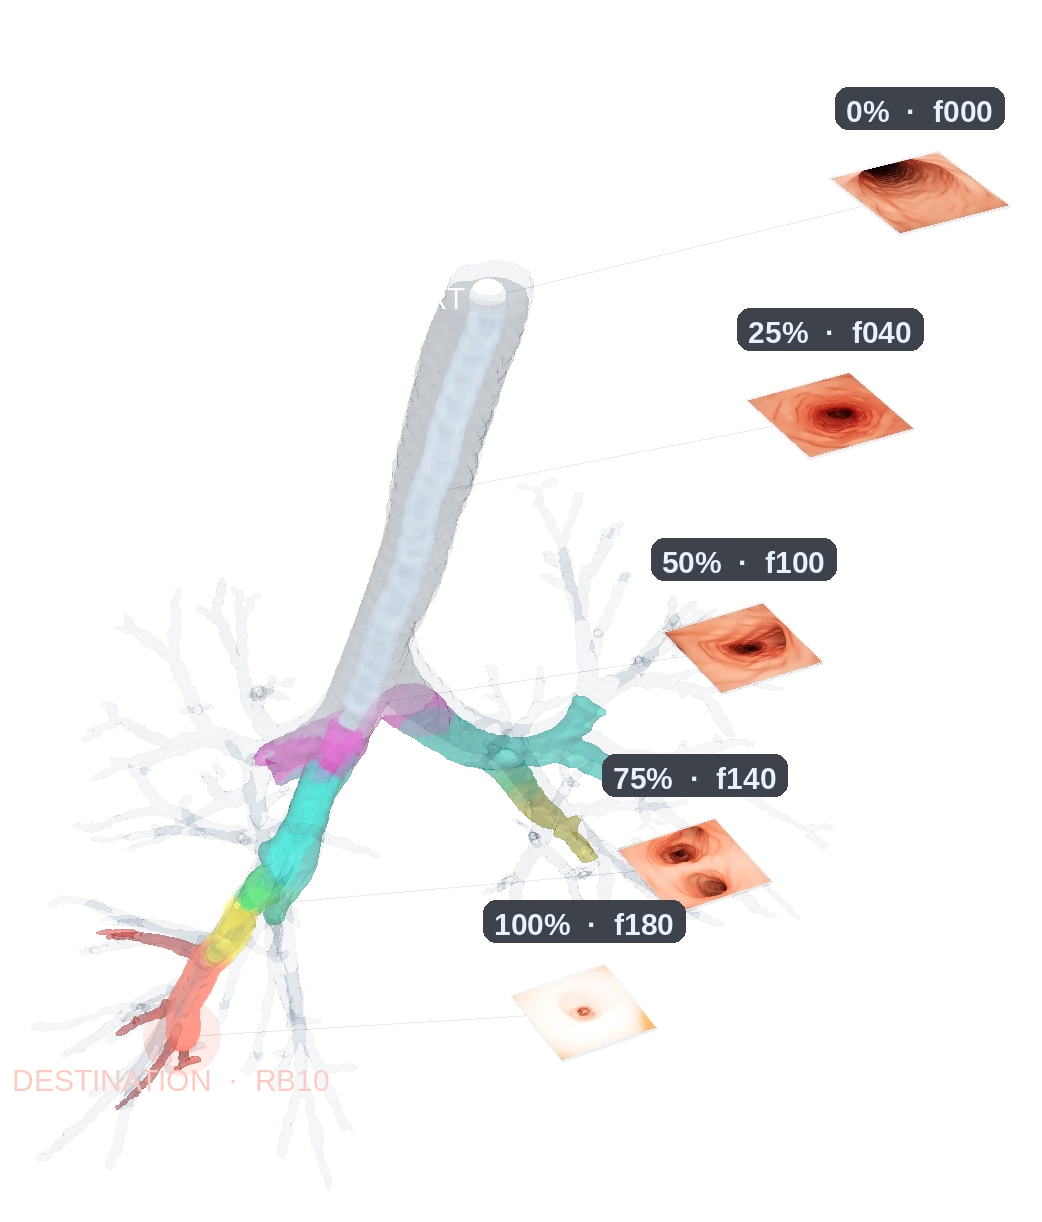
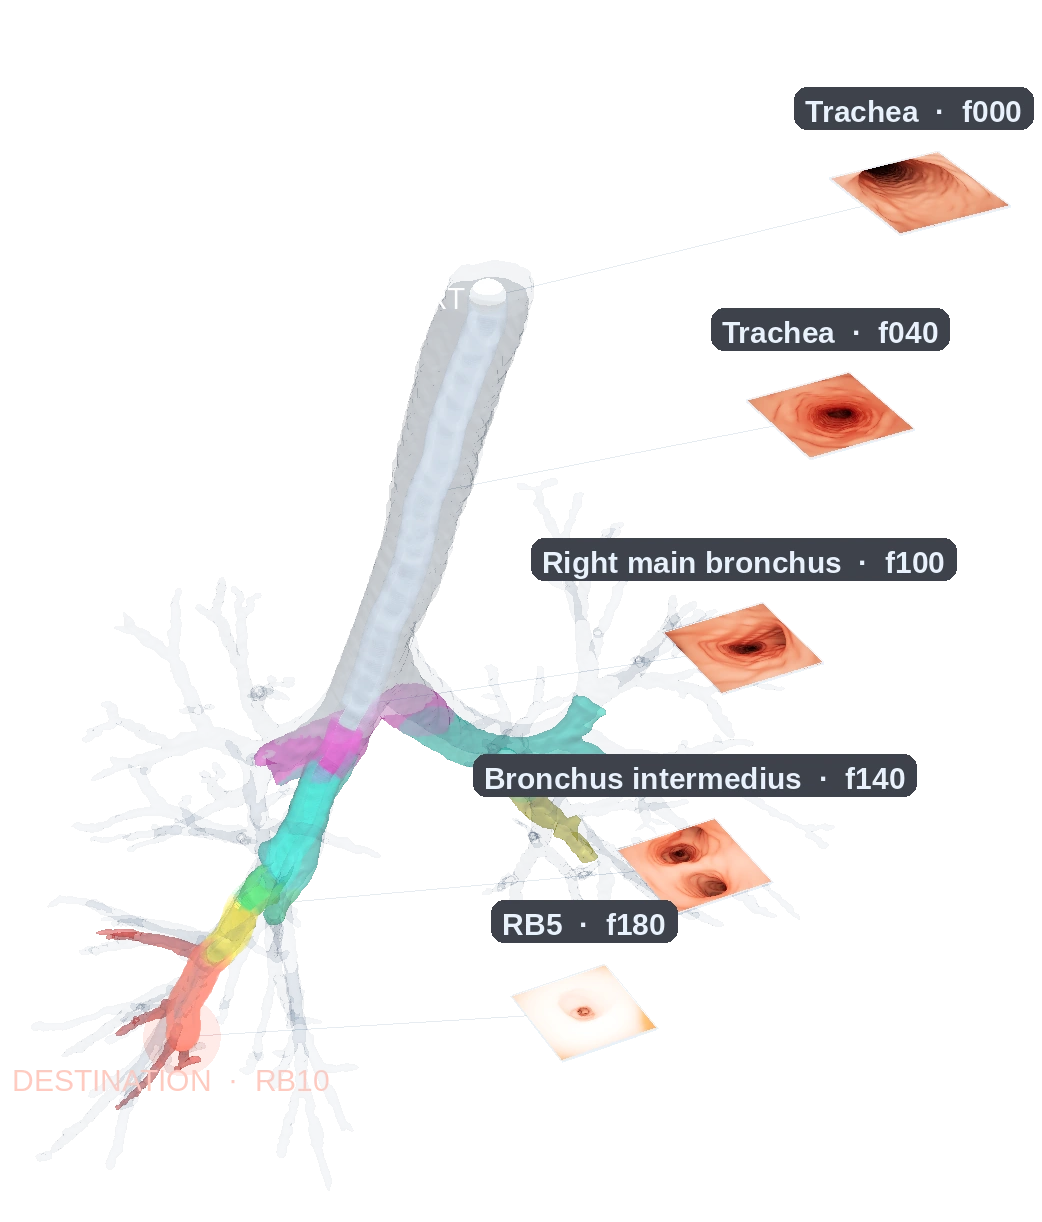
atm26: label Track 3 frames with their anatomical landmarks

diff --git a/sites/atm26/tests/taskFigures.test.ts b/sites/atm26/tests/taskFigures.test.ts
@@ -32,6 +32,18 @@ describe("track demo figures", () => {
       "160",
       "180",
     ]);
+    expect(TRACKS[2].figure?.frames?.map((frame) => frame.anatomy)).toEqual([
+      "Trachea",
+      "Trachea",
+      "Trachea",
+      "Trachea",
+      "Trachea",
+      "Right main bronchus",
+      "Bronchus intermedius",
+      "Bronchus intermedius",
+      "Right middle lobe",
+      "RB5",
+    ]);
   });
 
   it("pairs the shared CT input with a binary and a multiclass surface", () => {
@@ -112,6 +124,29 @@ describe("track demo figures", () => {
     expect(html).toContain('class="task-card-sequence"');
   });
 
+  it("names the landmark next to every Tracks frame, but not on the home card", () => {
+    const tracks = renderTracks();
+    expect(tracks.match(/class="seq-step seq-step--labelled"/g)).toHaveLength(10);
+    expect(tracks.match(/class="seq-anatomy"/g)).toHaveLength(10);
+    for (const name of [
+      "Trachea",
+      "Right main bronchus",
+      "Bronchus intermedius",
+      "Right middle lobe",
+      "RB5",
+    ]) {
+      expect(tracks).toContain(`<span class="seq-anatomy">${name}</span>`);
+    }
+    // The label follows the frame it names, and the alt text carries it too.
+    const firstFrame = tracks.indexOf("frame-000.webp");
+    const firstLabel = tracks.indexOf(">Trachea</span>");
+    expect(firstLabel).toBeGreaterThan(firstFrame);
+    expect(tracks).toContain("Bronchoscopy frame 100 (Right main bronchus)");
+
+    // The compact home card stays a pure timeline.
+    expect(renderHome()).not.toContain("seq-anatomy");
+  });
+
   it("renders three visual Task cards", () => {
     const html = renderHome();
     expect(html.match(/class="task-card task-card--/g)).toHaveLength(3);
@@ -137,7 +172,7 @@ describe("track demo figures", () => {
     expect(html).toContain('id="track-3"');
     expect(html.match(/class="track-figure /g)).toHaveLength(3);
     expect(html).toContain("track-figure--sequence");
-    expect(html.match(/class="seq-step"/g)).toHaveLength(10);
+    expect(html.match(/class="seq-step(?=[\s"])/g)).toHaveLength(10);
     expect(html).toContain("img/tasks/bronch-output.webp");
     expect(html).toContain('class="legend-swatch legend-left"');
     expect(html).toContain('class="legend-swatch legend-right"');
@@ -156,6 +191,8 @@ describe("track demo figures", () => {
       ".task-card-panes",
       ".task-card-sequence",
       ".seq-strip",
+      ".seq-step--labelled",
+      ".seq-anatomy",
       ".track-figure",
       ".track-figure--sequence",
     ]) {

diff --git a/sites/atm26/src/content.ts b/sites/atm26/src/content.ts
@@ -16,6 +16,8 @@ export interface TrackFigureFrame {
   height: number;
   /** Numeric tag shown on the timeline, e.g. "000". */
   label?: string;
+  /** Airway landmark visible in the frame, e.g. "Right main bronchus". */
+  anatomy?: string;
   /** "start" or "final" when the frame bounds the sequence. */
   role?: string;
 }
@@ -115,16 +117,32 @@ export const IMAGES = {
 /** Ten evenly spaced frames of one Track 3 training sequence. */
 const TRACK3_FRAME_IDS = [0, 20, 40, 60, 80, 100, 120, 140, 160, 180];
 
+/** Per-frame landmarks of sequence ATM_276/13, from its labels.csv. */
+const TRACK3_FRAME_ANATOMY: Record<number, string> = {
+  0: "Trachea",
+  20: "Trachea",
+  40: "Trachea",
+  60: "Trachea",
+  80: "Trachea",
+  100: "Right main bronchus",
+  120: "Bronchus intermedius",
+  140: "Bronchus intermedius",
+  160: "Right middle lobe",
+  180: "RB5",
+};
+
 const TRACK3_FRAMES: TrackFigureFrame[] = TRACK3_FRAME_IDS.map((id, index) => {
   const tag = String(id).padStart(3, "0");
   const role =
     index === 0 ? "start" : index === TRACK3_FRAME_IDS.length - 1 ? "final" : undefined;
+  const anatomy = TRACK3_FRAME_ANATOMY[id];
   return {
     src: `img/tasks/track3/frame-${tag}.webp`,
-    alt: `Bronchoscopy frame ${tag}${role ? `, the ${role} frame shown` : ""} of a training sequence.`,
+    alt: `Bronchoscopy frame ${tag} (${anatomy})${role ? `, the ${role} frame` : ""}, from a training sequence.`,
     width: 400,
     height: 400,
     label: tag,
+    anatomy,
     role,
   };
 });
@@ -276,7 +294,7 @@ export const TRACKS: TrackInfo[] = [
         kind: "32-class model + path",
         note: "Translucent classes; the rest of the tree faded.",
         src: IMAGES.taskBronchOutput,
-        alt: "A translucent multicoloured airway tree with a glowing navigation path from the top of the trachea to the RB10 segment; five bronchoscopy frames lie on horizontal planes along the path.",
+        alt: "A translucent multicoloured airway tree with a glowing navigation path from the top of the trachea to the RB10 segment; five bronchoscopy frames lie on horizontal planes along the path, each labelled with its airway class.",
         width: 1042,
         height: 1222,
         thumbSrc: IMAGES.taskBronchOutputThumb,

diff --git a/sites/atm26/src/pages.ts b/sites/atm26/src/pages.ts
@@ -210,8 +210,14 @@ function renderFrameStrip(fig: TrackFigure, context: "home" | "tracks"): string 
   const items = selected
     .map((frame) => {
       const tag = frame.label ?? "";
+      // The large Tracks figure names the landmark next to every frame; the
+      // compact home card keeps its timeline-only treatment.
+      const anatomy =
+        context === "tracks" && frame.anatomy
+          ? `<span class="seq-anatomy">${escapeHtml(frame.anatomy)}</span>`
+          : "";
       return `
-          <li class="seq-step">
+          <li class="seq-step${anatomy ? " seq-step--labelled" : ""}">
             <figure class="seq-frame">
               <img
                 src="${escapeHtml(resolveAsset(frame.src))}"
@@ -224,7 +230,7 @@ function renderFrameStrip(fig: TrackFigure, context: "home" | "tracks"): string 
               <figcaption>
                 <span class="seq-tag">f${escapeHtml(tag)}</span>
               </figcaption>
-            </figure>
+            </figure>${anatomy}
           </li>`;
     })
     .join("");

diff --git a/sites/atm26/src/styles.css b/sites/atm26/src/styles.css
@@ -1282,6 +1282,21 @@ summary {
   border-color: rgba(230, 237, 247, 0.9);
 }
 
+/* Tracks figure only: the landmark named beside each frame. */
+.seq-step--labelled {
+  flex-direction: row;
+  align-items: flex-start;
+  gap: 0.6rem;
+}
+
+.seq-anatomy {
+  margin-top: calc(var(--seq-size) / 2 - 0.45rem);
+  color: rgba(230, 237, 247, 0.78);
+  font-size: 0.72rem;
+  line-height: 1.25;
+  overflow-wrap: break-word;
+}
+
 .seq-frame {
   display: flex;
   flex-direction: column;

diff --git a/sites/atm26/README.md b/sites/atm26/README.md
@@ -179,11 +179,14 @@ The home Tasks panel and each Tracks section share the figures in
   (Track 2, cool colours for left-lung branches, warm for right-lung branches,
   neutral grey for the trachea and main bronchi).
 - **Track 3** packs ten frames of one training bronchoscopy sequence top to
-  bottom (first frame at the top, last at the bottom). The output is a
-  translucent 32-class airway surface with the endoluminal path from the
-  trachea (100) through the right main (102), bronchus intermedius (112) and
-  right lower lobe (111) / basal trunk (115) to RB10 (17). Five bronchoscopy
-  frames sit on axial planes along the path, so the sequence and the 3D route
+  bottom (first frame at the top, last at the bottom). On the Tracks page each
+  frame is labelled to its right with the landmark from the sequence's
+  `labels.csv` (trachea, right main bronchus, bronchus intermedius, right middle
+  lobe, RB5). The output is a translucent 32-class airway surface with the
+  endoluminal path from the trachea (100) through the right main (102),
+  bronchus intermedius (112) and right lower lobe (111) / basal trunk (115) to
+  RB10 (17). Five bronchoscopy frames sit on axial planes along the path, each
+  tagged with the same per-frame landmark, so the sequence and the 3D route
   read as one scene. Frames live in `public/img/tasks/track3/`; the scene is
   `bronch-output.webp`, with an unlabelled `bronch-output-thumb.webp` for the
   home card.
